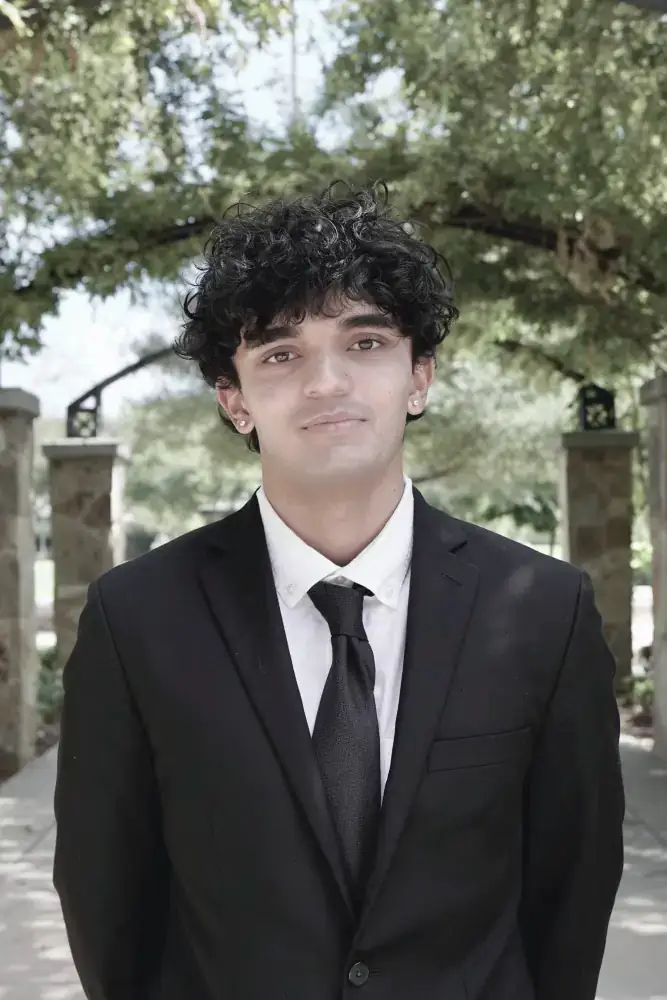
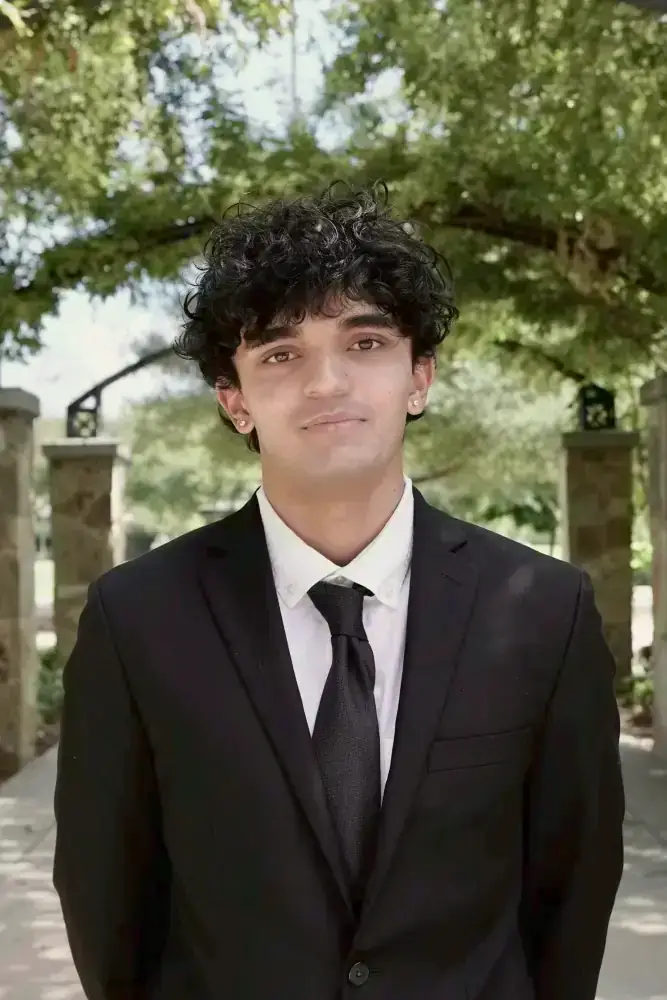
Undo the headshot grade, refresh Careers, and open the application
PHOTOS

The grade matched every LAB statistic to the reference set, chroma spread
included, and that is what drained them: Megan Dinh's b* spread went from
11.7 to 6.7 and Emily Chien's from 13.5 to 6.8, about half the colour in
each frame. Both are restored from before it. Pranav Rao's keeps the new
frame and the dodge — the shadows inside skin lifted a few levels, pores
and stubble untouched — with its colour returned to what the camera gave.

CAREERS

Sixteen rows off a sweep of every profile against the page. Ten brothers
had no row at all; Ashley Kang, Logan Kim and Tyler Ho have taken roles
that now sit above the ones listed, so those join rather than replace —
a seat held is still a seat held. Andrew Hauber, Nicole Kwan and Luis
Esparza wrote "incoming" but start this summer, so they are filed under
2026 with everyone else; 2027 is down to the five who really do start
next year. Pranay Macherla, Annie Nguyen and Andrew Sou reworded titles
under the same employer.

The incoming-year test counted rows per brother, which only held while
none of them had a second role. It asks whether a 2027 row exists now.

RUSH

The application button is back, pointing at the Fall 2026 form. Both
buttons drop Anton for Playfair at 500, tracked out: a condensed poster
face at 700 inside a 4px border read as a wall of letters. The border
thins to 2px to match.

Claude-Session: https://claude.ai/code/session_01Ch8pm4ZntSFCGdd5DPfgKc

diff --git a/src/utils/careersLocal.js b/src/utils/careersLocal.js
@@ -54,12 +54,20 @@ export const LOCAL_CAREERS = [
     "Software Engineering Intern",
   ],
   [
+    "Andrew Hauber",
+    "2026",
+    "Misc",
+    "Product Management",
+    "Capital One",
+    "Associate Product Management Intern",
+  ],
+  [
     "Andrew Sou",
     "2026",
     "Technology",
     "Software",
     "Roche",
-    "Software Engineering Intern",
+    "Software Engineer Intern",
   ],
   ["Anna Shan", "2026", "Finance", "Asset Management", "BlackRock", "Analyst"],
   [
@@ -76,7 +84,7 @@ export const LOCAL_CAREERS = [
     "Technology",
     "Student Ambassador",
     "Microsoft",
-    "Copilot Ambassador",
+    "Copilot Campus Ambassador",
   ],
   [
     "Anuj Patel",
@@ -95,6 +103,14 @@ export const LOCAL_CAREERS = [
     "Global Operations Intern",
   ],
   [
+    "Ashley Kang",
+    "2026",
+    "Marketing",
+    "Growth Marketing",
+    "Partiful",
+    "Campus Growth Strategist",
+  ],
+  [
     "Ashlyn Wong",
     "2026",
     "Misc",
@@ -110,7 +126,31 @@ export const LOCAL_CAREERS = [
     "Paramount",
     "Creative Services Intern",
   ],
+  [
+    "Ava Lily Tran",
+    "2026",
+    "Marketing",
+    "Marketing",
+    "UCI Center for Digital Transformation",
+    "Marketing Intern",
+  ],
   ["Bradly Ho", "2026", "Accounting", "Professional Services", "PwC", "Intern"],
+  [
+    "Brandon Koh",
+    "2026",
+    "Marketing",
+    "Content Creation",
+    "YouTube",
+    "Content Creator",
+  ],
+  [
+    "Brandon Peng",
+    "2026",
+    "Technology",
+    "Software",
+    "American Campus Communities",
+    "Software Engineer Intern",
+  ],
   [
     "Catelynn Chen",
     "2026",
@@ -126,6 +166,14 @@ export const LOCAL_CAREERS = [
     "Brand Ambassador",
     "Taco Bell",
     "Live Mas Ambassador",
+  ],
+  [
+    "Cindy Chen",
+    "2026",
+    "Misc",
+    "Research",
+    "Liu Lab CIRC",
+    "Undergraduate Researcher",
   ],
   [
     "Daniela Herrera",
@@ -150,6 +198,14 @@ export const LOCAL_CAREERS = [
     "Human Resources",
     "UPS",
     "Human Resources Intern",
+  ],
+  [
+    "Erin Tran",
+    "2026",
+    "Accounting",
+    "Corporate Accounting",
+    "American Healthcare REIT",
+    "Accounting Associate",
   ],
   [
     "Ethan Le",
@@ -200,6 +256,14 @@ export const LOCAL_CAREERS = [
     "Investment Banking Summer Analyst",
   ],
   [
+    "Katie Wang",
+    "2026",
+    "Marketing",
+    "Social Media Marketing",
+    "GitHub",
+    "Social Media Marketing Intern",
+  ],
+  [
     "Lauren Cho",
     "2026",
     "Technology",
@@ -215,6 +279,7 @@ export const LOCAL_CAREERS = [
     "Girls Who Consult",
     "Cohort Member",
   ],
+  ["Logan Kim", "2026", "Misc", "Entrepreneurship", "Eulou", "Founder"],
   [
     "Luis Esparza",
     "2026",
@@ -222,6 +287,14 @@ export const LOCAL_CAREERS = [
     "Data Analytics",
     "Capital One",
     "Data Analyst",
+  ],
+  [
+    "Luis Esparza",
+    "2026",
+    "Misc",
+    "Revenue Analytics",
+    "Disney",
+    "Revenue Analytics and Insights Intern",
   ],
   [
     "Mason Whang",
@@ -256,6 +329,14 @@ export const LOCAL_CAREERS = [
     "Total Rewards Intern",
   ],
   [
+    "Megan Yung",
+    "2026",
+    "Misc",
+    "Public Health",
+    "UCI Joe C. Wen School of Public Health",
+    "Student Practicum Assistant",
+  ],
+  [
     "Melinda Do",
     "2026",
     "Marketing",
@@ -280,12 +361,28 @@ export const LOCAL_CAREERS = [
     "Growth & Strategic Marketing",
   ],
   [
+    "Mina Nguyen",
+    "2026",
+    "Consulting",
+    "Health and Benefits",
+    "Aon",
+    "Health and Benefits Intern",
+  ],
+  [
     "Nico Simonian",
     "2026",
     "Finance",
     "Corporate Finance",
     "ARM",
     "FP&A Intern",
+  ],
+  [
+    "Nicole Kwan",
+    "2026",
+    "Misc",
+    "Program Management",
+    "Amazon",
+    "Program Management Intern",
   ],
   [
     "Pranav Rao",
@@ -299,9 +396,9 @@ export const LOCAL_CAREERS = [
     "Pranay Macherla",
     "2026",
     "Misc",
-    "Product Operations",
+    "Strategy and Analytics",
     "Tesla",
-    "Product Operations Intern",
+    "Strategy & Cost Analytics Intern",
   ],
   [
     "Rishi Murumkar",
@@ -310,6 +407,14 @@ export const LOCAL_CAREERS = [
     "Software",
     "Amazon Web Services",
     "Software Engineering Intern",
+  ],
+  [
+    "Samantha Lee",
+    "2026",
+    "Technology",
+    "Powertrain Engineering",
+    "Hyundai America Technical Center",
+    "Powertrain Engineer Intern",
   ],
   [
     "Sophie Choi",
@@ -326,6 +431,22 @@ export const LOCAL_CAREERS = [
     "Brand Ambassador",
     "Celsius Holdings",
     "Student Marketing Ambassador",
+  ],
+  [
+    "Travis Yen",
+    "2026",
+    "Misc",
+    "Entrepreneurship",
+    "Teon Atelier",
+    "Owner and Founder",
+  ],
+  [
+    "Tyler Ho",
+    "2026",
+    "Finance",
+    "Financial Planning",
+    "Crosspoint Financial",
+    "Financial Planning Intern",
   ],
 
   // 2027 — signed, but incoming: these start in 2027 rather than this summer,

diff --git a/src/Components/RushButton.jsx b/src/Components/RushButton.jsx
@@ -33,16 +33,20 @@ import { Button, styled } from "@mui/material";
 
 const ChromeButton = styled(Button)(({ theme }) => ({
   display: "inline-block",
-  padding: "12px 28px", // Exact same padding as calendar button
+  padding: "14px 34px",
   backgroundColor: "transparent", // Exact same background as calendar button
   color: "white",
   textDecoration: "none", // Same as calendar button
-  border: "4px solid rgb(255, 255, 255)", // Exact same border as calendar button
+  border: "2px solid rgba(255, 255, 255, 0.85)",
   borderRadius: "0px", // Exact same border radius as calendar button
-  fontFamily: "'Anton', 'Arial Narrow', Arial, sans-serif",
-  fontSize: "1rem", // Exact same font size as calendar button
-  fontWeight: 700,
-  letterSpacing: "1px", // Exact same letter spacing as calendar button
+  /* Anton is a condensed poster face at 700: on a two-word label inside a
+     4px border it read as a wall of letters. Playfair at 500 is the serif the
+     rest of this page now sets its notice in, and tracking it out gives the
+     words room the condensed face never had. */
+  fontFamily: "'Playfair Display', Georgia, 'Times New Roman', serif",
+  fontSize: "1.05rem",
+  fontWeight: 500,
+  letterSpacing: "0.16em",
   transition: "all 0.3s ease", // Exact same transition as calendar button
   textTransform: "uppercase", // Exact same text transform as calendar button
   boxShadow: "0 2px 10px rgba(0, 0, 0, 0.2)", // Exact same shadow as calendar button

diff --git a/src/Pages/Recruitment.jsx b/src/Pages/Recruitment.jsx
@@ -23,6 +23,8 @@ const RUSH_STATE = "live";
    so the deadline belongs on the hero next to the button, not buried at the
    end of the schedule. */
 const APPLICATION_DEADLINE = "Friday, October 3";
+const APPLICATION_URL =
+  "https://docs.google.com/forms/d/e/1FAIpQLSeoABLpdoUg0TtfbX5C43WFUOzqkZl6D3kWQ5QRH1mJB4pRkw/viewform";
 const RUSH_EMAIL = "akpsi.uci.rush@gmail.com";
 
 /* The Calvin Harris loop that used to autoplay on this page. Backlogged, not
@@ -197,10 +199,9 @@ export default function Recruitment() {
             >
               <b>Add Rush Events to Calendar</b>
             </RushButton>
-            {/* The application button is out until the Fall 2026 form
-                exists: it pointed at a previous cycle's form, and a dead
-                link on the page's main call to action is worse than no
-                button. Put it back with the new URL. */}
+            <RushButton href={APPLICATION_URL}>
+              <b>Rush Application</b>
+            </RushButton>
           </div>
         )}
         {!isComingSoon && (

diff --git a/src/utils/careersLocal.test.js b/src/utils/careersLocal.test.js
@@ -20,12 +20,21 @@ describe("LOCAL_CAREERS", () => {
     LOCAL_CAREERS.forEach((row) => expect(["2026", "2027"]).toContain(row[1]));
   });
 
-  it("files the incoming brothers under 2027, not 2026", () => {
-    const incoming = ["Braeden Yeoh", "Logan Kim", "Tyler Ho"];
+  it("files an incoming role under the year it starts, not this summer", () => {
+    // Everyone here wrote "incoming" against that seat on the form: it is
+    // signed, but it begins next summer, and the Year column is what files a
+    // row under a tab. Several of them hold a 2026 role as well, which is why
+    // this asks whether a 2027 row exists rather than counting rows.
+    const incoming = [
+      "Braeden Yeoh",
+      "Logan Kim",
+      "Max Truong",
+      "Rishi Murumkar",
+      "Tyler Ho",
+    ];
     incoming.forEach((name) => {
       const rows = LOCAL_CAREERS.filter((row) => row[0] === name);
-      expect(rows).toHaveLength(1);
-      expect(rows[0][1]).toBe("2027");
+      expect(rows.some((row) => row[1] === "2027")).toBe(true);
     });
   });
 
